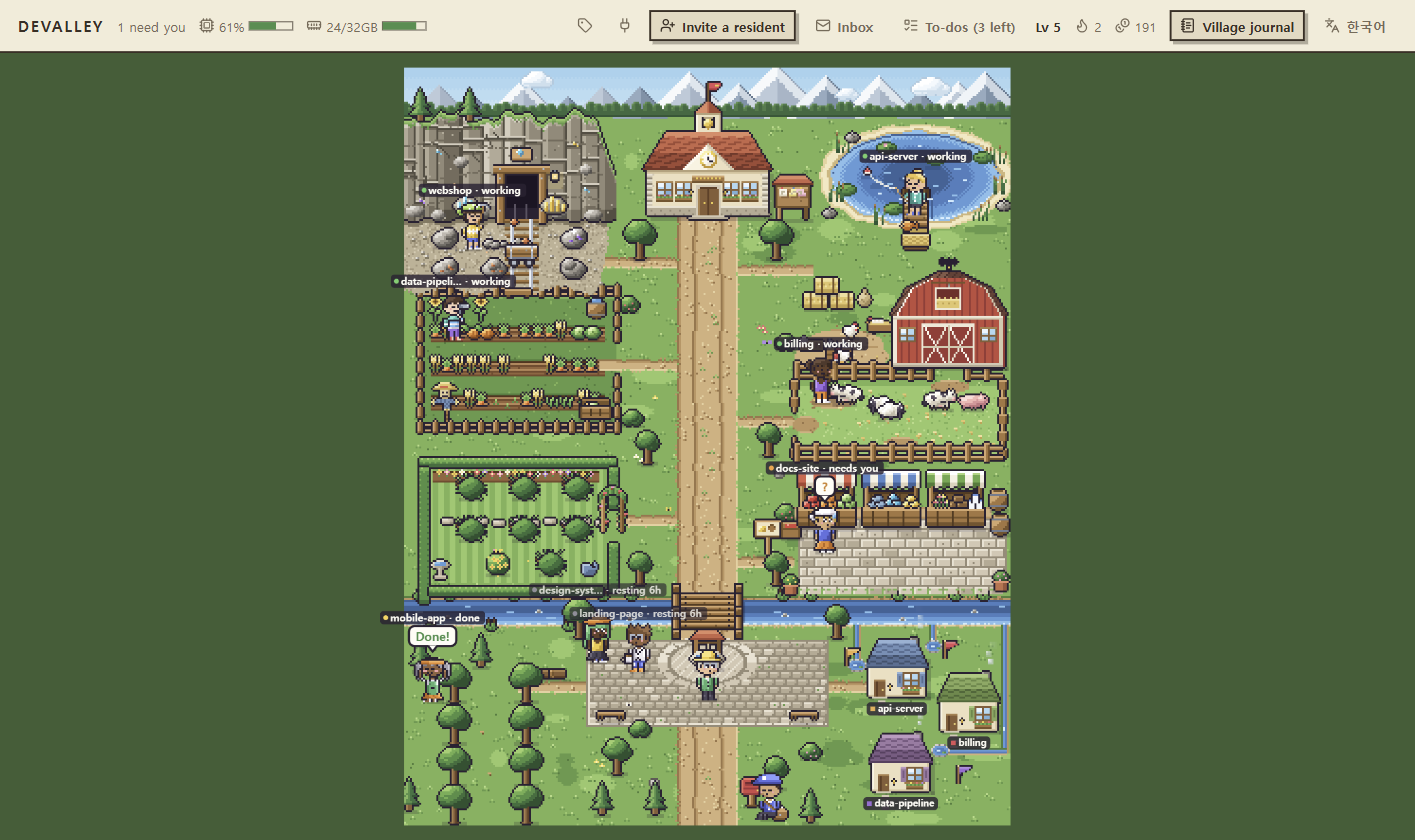
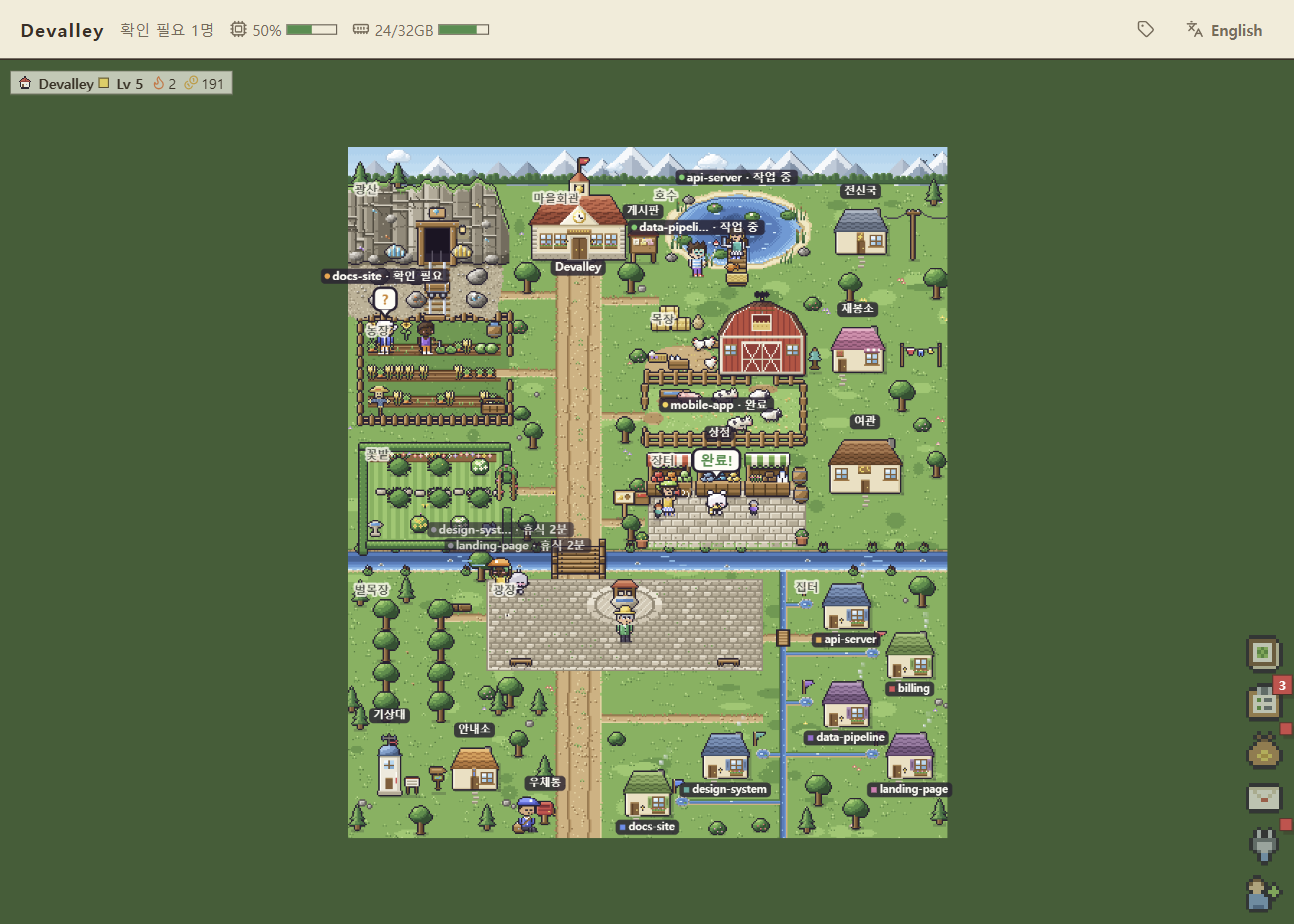
Devalley 0.9.0

diff --git a/README.md b/README.md
@@ -4,7 +4,9 @@ A pixel-art village where every coding-agent session is a resident: Claude Code,
 
 - **Residents show what their agent is doing.** Working sessions go to work at the farm, mine, lake, ranch, garden, market or lumberyard, and the valley changes as they work: trees fall and grow back, rocks break, fish are landed, crops ripen and are harvested. A question or permission prompt raises a **?** bubble, and a finished turn cheers **Done!**
 - **Each agent in each project is one resident,** with the same name and look every session. About one in four is born a small round critter (a cub, bunny, kitty, chick, pup, hamster or frog). Dress them in the wardrobe, and the chief too.
-- **Repositories and branches become cottages** on streams off the main river.
+- **Repositories and branches become cottages**: up to six of them, along a creek past the wide plaza, each with its stream and its pennant.
+- **Click anything to see what it does.** Point at a building and it says what it is and what a click does. The town hall opens the journal, its notice board your to-dos, the market's stalls the shop and the mailbox the inbox. The telegraph office connects agents, the tailor's dresses the chief, and the visitors' hut by the gate invites a resident. The weather station shows how much of each agent you've used, and the inn is where residents resting for days doze, off the plaza. A cottage shows who lives there, and a workplace who works there now.
+- **Name your village.** Its name is on the panel over the map, on the town hall, in the browser tab and on the app's window.
 - **Messages from outside reach the village.** The postman brings Slack, GitHub or any other message to the chief as a speech bubble.
 - **The chief keeps your to-dos** on the notice board by the town hall.
 - **Play as the chief:** walk the chief around the village with the arrow keys, and press Space at any workplace to lend a hand. Every few swings earn a coin or a few, shown over the chief's head, to spend in the shop and the wardrobe.
@@ -25,7 +27,11 @@ Installing a new version over an old one closes the running app first. The tray 
 
 The first time, the village asks to **Connect Claude Code**. Sessions that are already running join on their next prompt, with no restart; new ones move in as soon as you send them a prompt.
 
-Click a resident to see its task, copy the `claude --resume` command for its session, or open its folder. Click a finished resident to mark its work as seen. The notice board by the town hall opens the journal, the shop and your to-dos.
+Click a resident to see its task, copy the `claude --resume` command for its session, or open its folder. Click a finished resident to mark its work as seen, or its speech bubble to bring its window forward.
+
+The panel at the top left shows your village's name, level, streak and coins; click the name to rename the village. The icons on the right open the journal, your to-dos, the shop, the inbox, **Connect agents** and **Invite a resident**, each with a badge when something waits: unread mail, to-dos left, something new you can afford. The buildings do the same: see **Click anything** above.
+
+A cottage's card lists who lives there (click one for their card) and can open the project's folder, invite a resident into it, or bring its one resident's window forward.
 
 Each resident keeps a **diary** on its card: what you asked it, what it asked you, and how each turn ended (the first line of its last answer, or the error it stopped on), newest first.
 
@@ -116,7 +122,7 @@ To connect Slack, open the inbox and follow its three steps: **Create the Devall
 
 ## Keep an eye on things
 
-- **Labels:** every resident carries a tag over its head with its project (the repo, plus the branch when it isn't the default one) and what it's doing: working, needs you, done, or resting and for how long. When tags would overlap, the ones that need you win and the rest climb a row or hide until you hover. The tag button in the header switches between all tags, only busy residents' and none.
+- **Labels:** every resident carries a tag over its head with its project (the repo, plus the branch when it isn't the default one) and what it's doing: working, needs you, done, or resting and for how long. When tags would overlap, the ones that need you win and the rest climb a row or hide until you hover. The tag button in the header switches between all tags, only busy residents' and none. With all tags on, each part of the valley carries its name too: the mine, the lake, the plaza, the cottages and the rest. The signs on the notice board, the mailbox and the stalls go only when tags are off.
 - **This computer:** the header shows CPU and memory use, updated every two seconds.
 - **Agent usage:** a strip along the bottom of the map shows each agent's quota on its own line, by its platform's logo (used share and time until it resets); click it for how much of each plan is left and how many tokens each agent used today and in the last 7 days, by project. Quotas (Claude Code, Codex, Gemini CLI) use the sign-in each CLI already has, so there's nothing to sign in to in Devalley; an expired sign-in shows a **Sign in** button that opens that CLI's login in a terminal. Tokens (Claude Code, Codex, Gemini CLI, Copilot CLI) are counted from the session records the agents keep on your computer.
 - **Terminal:** a resident's card brings forward the window its agent runs in: the IDE (VS Code, Cursor), the terminal (Windows Terminal, Terminal, iTerm) or the app (Claude, ChatGPT). Linux needs `xdotool`.
@@ -128,8 +134,8 @@ To connect Slack, open the inbox and follow its three steps: **Create the Devall
 
 The app keeps your residents in front of you while you work, in two ways you can switch on and off from its tray icon:
 
-- **Walking residents** stroll along the bottom of your screen, just above the taskbar or dock, and the chief, in its outfit, is always out there with them; click the chief to invite a resident, connect agents or dress it. Press and drag anyone to pick them up: they flail in a fluster until you let go, then drop and carry on from there. The **Walking residents size** slider in the village window's menu (☰) makes them anywhere from half to twice their size. The window is transparent and every click passes through to whatever is underneath, except on a resident. A resident with a question hurries to the middle of the screen and hops with a **?** until you answer. One that finishes a turn jumps and cheers **Done!**; click it once you've seen the work and it walks off the screen, coming back when it starts its next task (the village window keeps everyone). Residents that go to rest walk off the same way; only those working, asking or just finished walk along the screen. Click any other resident for its card, where you can talk to it or bring its terminal forward.
-- **Village window** is the whole village and the agent usage under it, as a small always-on-top window with no frame, sized to fit both exactly. Drag its corner to resize it, and the map zooms to fit. Hover it for its title bar, where you can drag it; its menu (☰) holds CPU and memory, long-idle residents, agent usage, tags, the inbox, connecting agents, invites, the journal and hiding the window.
+- **Walking residents** stroll along the bottom of your screen, just above the taskbar or dock, and the chief, in its outfit, is always out there with them; click the chief to invite a resident, connect agents or dress it. Press and drag anyone to pick them up: they flail in a fluster until you let go, then drop and carry on from there. The **Walking residents size** slider in the village window's menu (☰) makes them anywhere from half to twice their size. The window is transparent and every click passes through to whatever is underneath, except on a resident. A resident with a question hurries to the middle of the screen and hops with a **?** until you answer. One that finishes a turn jumps and cheers **Done!**; click it once you've seen the work and it walks off the screen, coming back when it starts its next task (the village window keeps everyone). Residents that go to rest walk off the same way; only those working, asking or just finished walk along the screen. Click any other resident for its card, where you can talk to it or bring its terminal forward, or click its speech bubble to bring its window forward right away. Every resident's name and project, with a dot for what it's doing, stand under its feet.
+- **Village window** is the whole village and the agent usage under it, as a small always-on-top window with no frame, sized to fit both exactly. Drag its corner to resize it, and the map zooms to fit. Hover it for its title bar, where you can drag it; its menu (☰) holds long-idle residents, agent usage, tags and hiding the window, and the icons over the map open the rest. A window too small for the whole valley shows part of it, starting at the plaza; drag the map to look around.
 
 ![Residents walking along the bottom of the screen](docs/assets/desktop-walkers.png)
 
